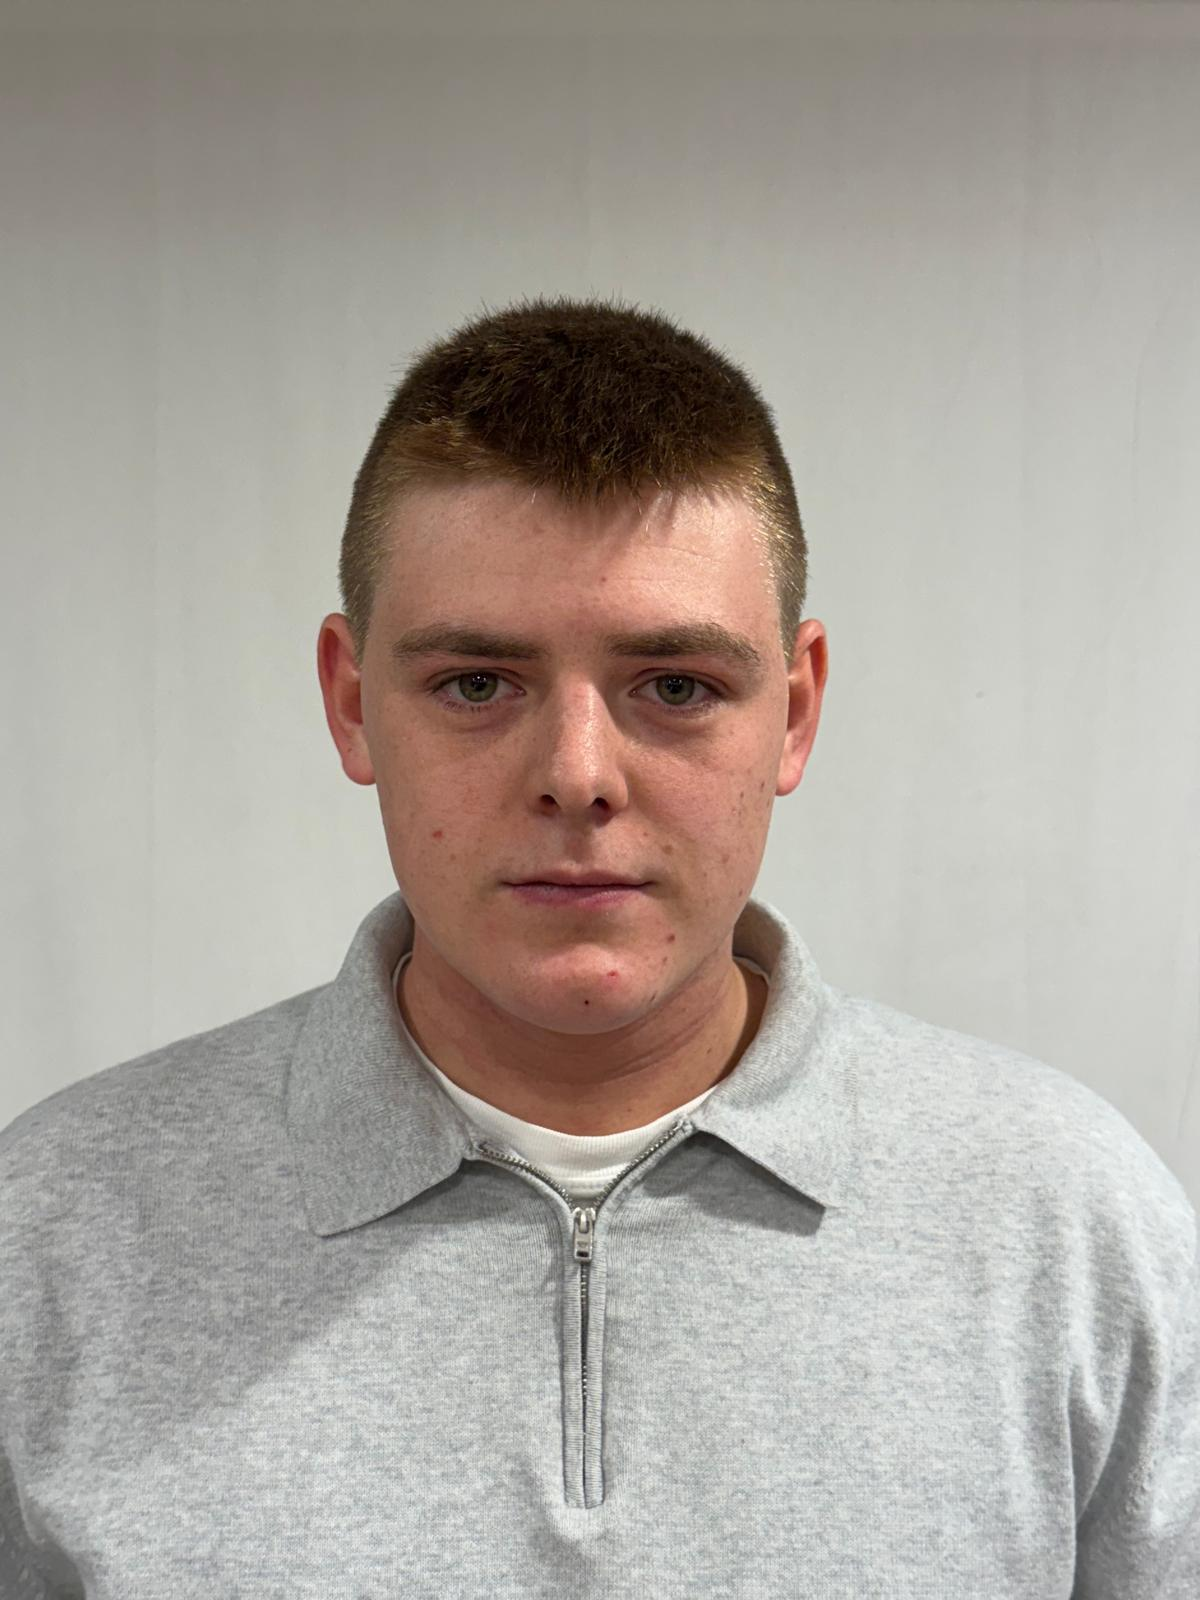
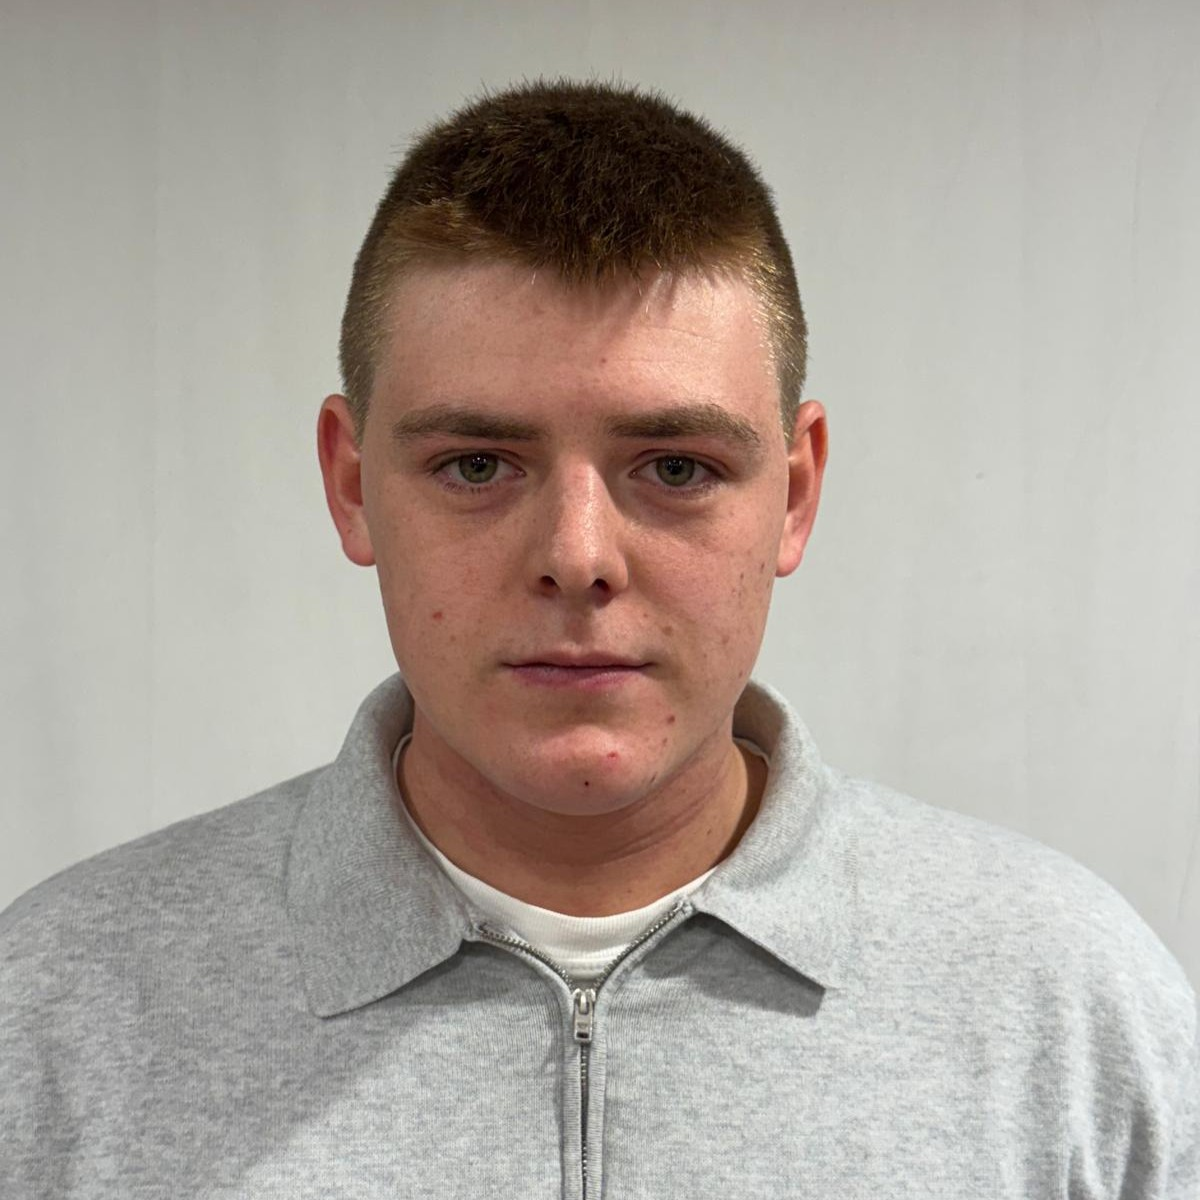
feat: polish team section layout/overlay and optimize media pipeline for performance

diff --git a/index.html b/index.html
@@ -76,7 +76,9 @@
               <div class="why-choose-thumb">
                 <img
                   src="img/stock/abstract-hand-drawn-node-pattern-on-white-wall-bac-2025-10-15-04-19-33-utc.jpg"
-                  alt="" />
+                  alt=""
+                  loading="lazy"
+                  decoding="async" />
               </div>
               <div class="why-choose-text">
                 <h2>Een geavanceerde beslisstructuur</h2>
@@ -93,7 +95,9 @@
               <div class="why-choose-thumb">
                 <img
                   src="img/stock/young-renovator-using-laptop-to-browse-internet-we-2025-02-19-12-17-04-utc.jpg"
-                  alt="" />
+                  alt=""
+                  loading="lazy"
+                  decoding="async" />
               </div>
               <div class="why-choose-text">
                 <h2>De BuiltSmart-Bot, jouw digitale assistent</h2>
@@ -619,14 +623,17 @@
                 We worden gecoacht via Copilot-traject van PXL Hogeschool en kunnen groeien in de inspirerende omgeving
                 van de Corda Campus in Hasselt.
               </p>
+              <div class="team-group-photo">
+                <img src="img/team/team-groep.jpeg" alt="BuiltSmart team groepsfoto" loading="lazy" decoding="async" />
+              </div>
             </div>
           </div>
         </div>
-        <div class="row">
-          <div class="col-md-3 col-sm-6 col-xs-12">
+        <div class="row team-members-row">
+          <div class="col-sm-4 col-xs-6 team-col-fifth">
             <div class="team-member">
               <div class="team-thumb wow slideInUp" data-wow-duration="1000ms" data-wow-delay="330ms">
-                <img src="img/team2_1.jpg" alt="" />
+                <img src="img/team/team_andres.jpeg" alt="Andres Vranckx" loading="lazy" decoding="async" />
                 <div class="team-overlay">
                   <ul>
                     <li>
@@ -645,10 +652,10 @@
               <h3>Zaakvoerder</h3>
             </div>
           </div>
-          <div class="col-md-3 col-sm-6 col-xs-12">
+          <div class="col-sm-4 col-xs-6 team-col-fifth">
             <div class="team-member">
               <div class="team-thumb wow slideInUp" data-wow-duration="1000ms" data-wow-delay="340ms">
-                <img src="img/team2_2.jpg" alt="" />
+                <img src="img/team/team_lars.jpeg" alt="Lars Theys" loading="lazy" decoding="async" />
                 <div class="team-overlay">
                   <ul>
                     <li>
@@ -667,10 +674,10 @@
               <h3>Operations</h3>
             </div>
           </div>
-          <div class="col-md-3 col-sm-6 col-xs-12">
+          <div class="col-sm-4 col-xs-6 team-col-fifth">
             <div class="team-member">
               <div class="team-thumb wow slideInUp" data-wow-duration="1000ms" data-wow-delay="340ms">
-                <img src="img/team2_3.jpg" alt="" />
+                <img src="img/team/team_navjot.jpeg" alt="Navjot Banga" loading="lazy" decoding="async" />
                 <div class="team-overlay">
                   <ul>
                     <li>
@@ -689,10 +696,10 @@
               <h3>Marketing</h3>
             </div>
           </div>
-          <div class="col-md-3 col-sm-6 col-xs-12">
+          <div class="col-sm-4 col-xs-6 team-col-fifth">
             <div class="team-member">
               <div class="team-thumb wow slideInUp" data-wow-duration="1000ms" data-wow-delay="350ms">
-                <img src="img/team2_4.jpg" alt="" />
+                <img src="img/team/team_eline.jpeg" alt="Eline Geeraerts" loading="lazy" decoding="async" />
                 <div class="team-overlay">
                   <ul>
                     <li>
@@ -711,10 +718,10 @@
               <h3>Sales</h3>
             </div>
           </div>
-          <div class="col-md-3 col-sm-6 col-xs-12">
+          <div class="col-sm-4 col-xs-6 team-col-fifth">
             <div class="team-member">
               <div class="team-thumb wow slideInUp" data-wow-duration="1000ms" data-wow-delay="350ms">
-                <img src="img/team2_4.jpg" alt="" />
+                <img src="img/team/team_jasper.jpeg" alt="Jasper Verlinden" loading="lazy" decoding="async" />
                 <div class="team-overlay">
                   <ul>
                     <li>

diff --git a/css/team.css b/css/team.css
@@ -20,6 +20,8 @@
   position: relative;
   overflow: hidden;
   transition: all 0.4s ease-in-out 0s;
+  width: 100%;
+  aspect-ratio: 1 / 1;
 }
 .team-overlay {
   position: absolute;
@@ -29,16 +31,22 @@
   top: 100%;
   visibility: hidden;
   transition: all 0.4s ease-in-out 0s;
-  background-color: rgba(0, 0, 0, 0.65);
+  background: linear-gradient(180deg, rgba(12, 10, 9, 0.2) 0%, rgba(12, 10, 9, 0.78) 100%);
 }
 .team-overlay ul {
   position: absolute;
   top: 50%;
   width: 100%;
+  display: flex;
+  justify-content: center;
+  gap: 10px;
   transform: translateY(-50%);
 }
 .team-member img {
   width: 100%;
+  height: 100%;
+  object-fit: cover;
+  object-position: center 33%;
 }
 .team-member h2 {
   font-size: 18px;
@@ -52,15 +60,25 @@
   transition: all 0.4s ease-in-out 0s;
 }
 .team-overlay li a {
-  width: 30px;
-  height: 30px;
-  padding: 0 5px;
+  width: 36px;
+  height: 36px;
+  padding: 0;
   display: inline-block;
-  background: var(--secondary-color-darker);
+  background: rgba(250, 250, 249, 0.12);
+  border: 1px solid rgba(250, 250, 249, 0.55);
   border-radius: 100%;
   color: var(--text-color-light);
   text-align: center;
-  line-height: 30px;
+  line-height: 36px;
+  transition: all 0.2s ease;
+}
+.team-overlay li a:hover {
+  background: var(--secondary-color);
+  border-color: var(--secondary-color);
+  color: var(--ui-btn-primary-text);
+}
+.team-overlay li a i {
+  color: inherit;
 }
 .team-overlay li {
   transition: 0.6s;
@@ -98,4 +116,29 @@
 }
 .team-member li i {
   color: var(--text-color-light);
+}
+
+.team-group-photo {
+  margin-top: 28px;
+  border-radius: var(--ui-radius-md);
+  overflow: hidden;
+  box-shadow: var(--ui-shadow-1);
+}
+
+.team-group-photo img {
+  width: 100%;
+  display: block;
+  object-fit: cover;
+  max-height: 420px;
+}
+
+.team-members-row {
+  display: flex;
+  flex-wrap: wrap;
+}
+
+@media only screen and (min-width: 992px) {
+  .team-members-row .team-col-fifth {
+    width: 20%;
+  }
 }
